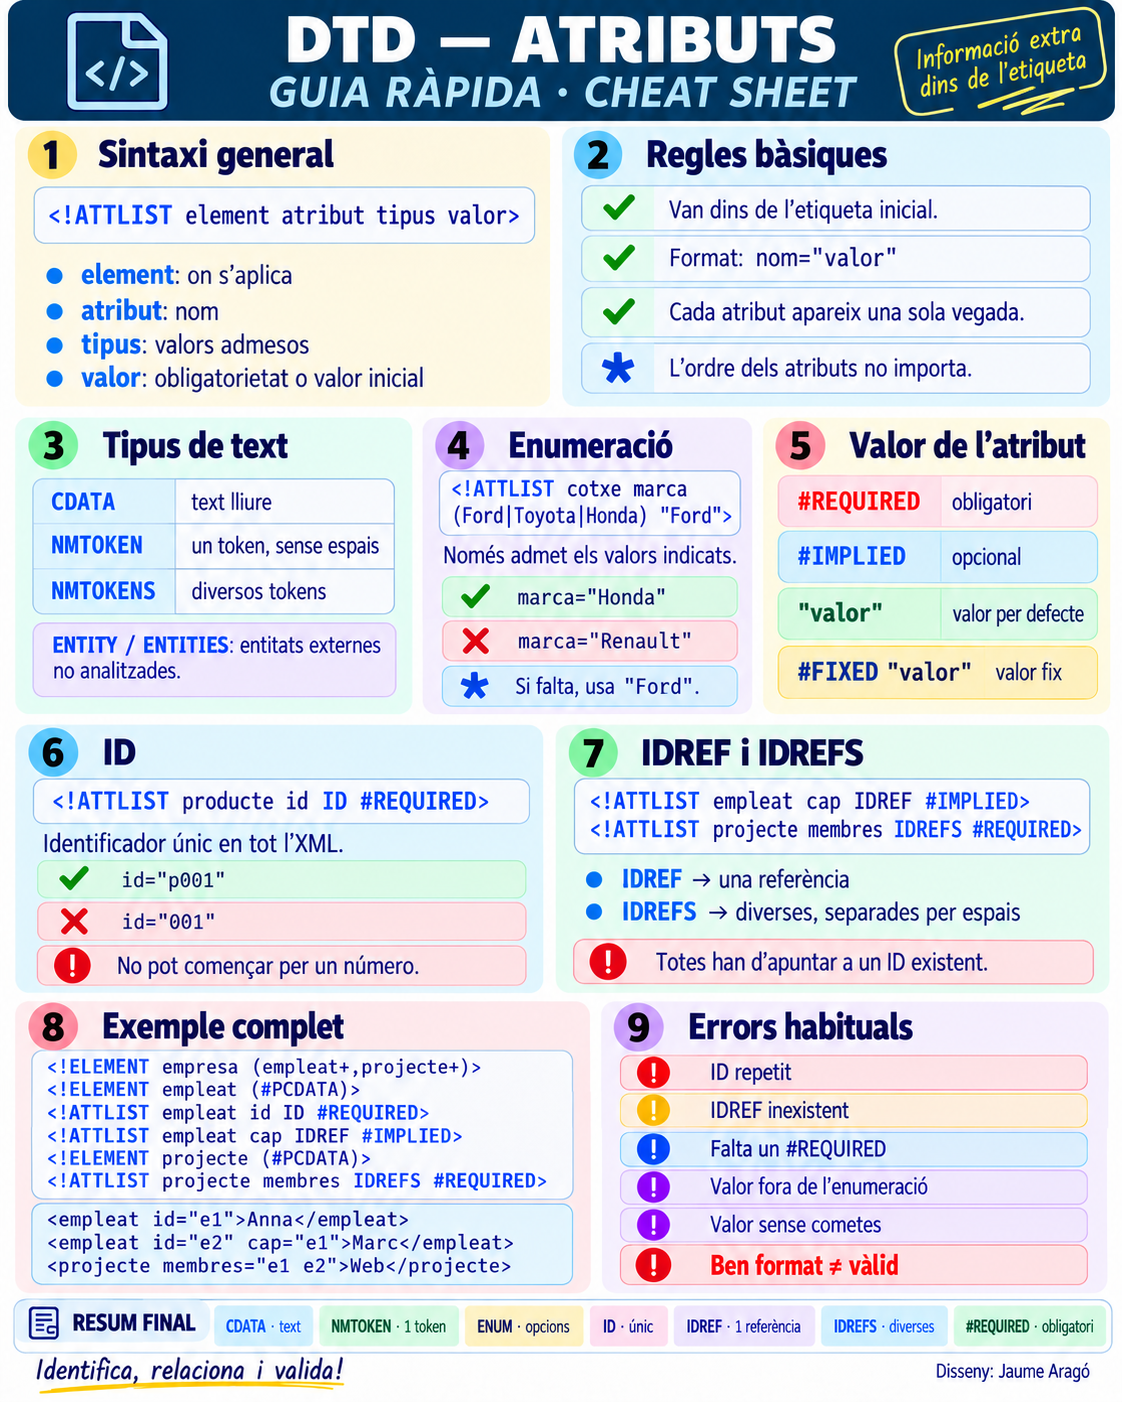
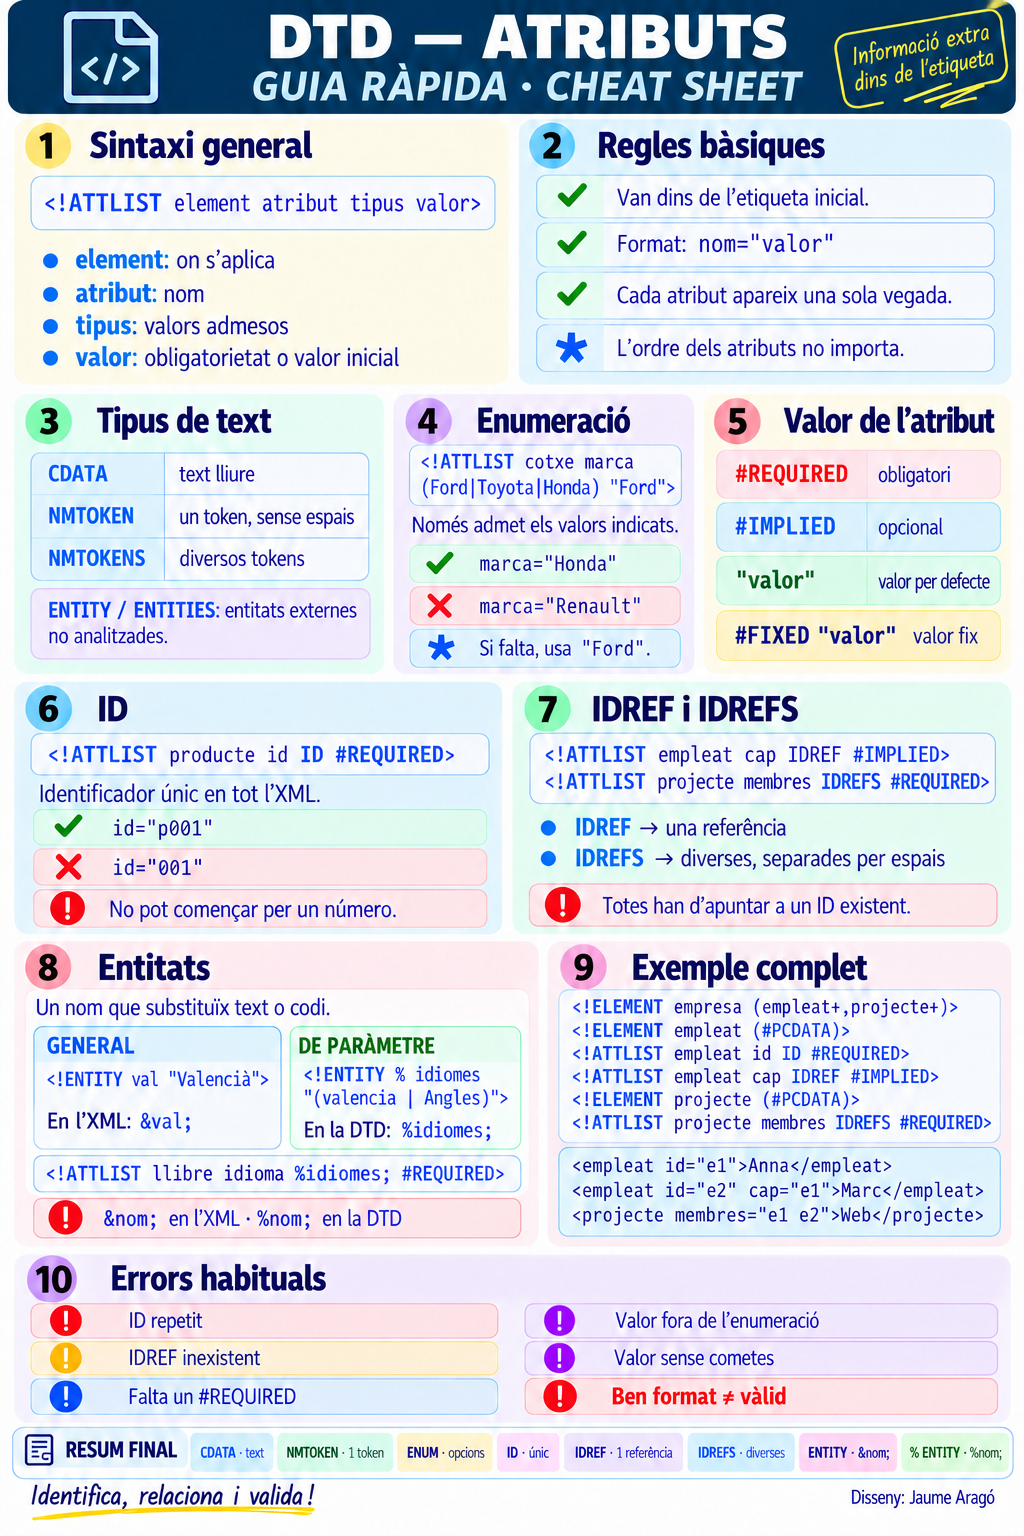
Add visual guide for DTD attributes and update existing image

diff --git a/1 XML-DTD/1.2.2.Atributs.md b/1 XML-DTD/1.2.2.Atributs.md
@@ -170,11 +170,12 @@ El tipus **NMTOKEN** restringeix el valor de l’atribut a **una sola paraula** 
 
 **Exemple:**
 
+✅ Vàlid
+
 ```xml
 <empleat codi="emp_001"/>
 ```
 
-✅ Vàlid
 
 ```xml
 <empleat codi="emp-001"/>
@@ -247,6 +248,8 @@ Cap altre element pot tindre el mateix valor d’ID.
 
 * Cada valor `ID` ha de ser **únic** en tot el document.
 * Ha de començar amb **una lletra o subratllat**, i **no pot contindre espais**.
+* Un tipus d’element només pot tindre **un atribut ID.**
+* Un atribut ID només pot declarar-se amb **#REQUIRED o #IMPLIED.**
 
 **Exemple:**
 
@@ -265,8 +268,12 @@ Cap altre element pot tindre el mateix valor d’ID.
 
 #### **6. IDREF**
 
+
+
 El tipus **IDREF** permet crear **referències** a valors d’atributs `ID` ja declarats.
 Serveix per relacionar elements dins del mateix document.
+
+Un **IDREF** ha de **coincidir amb algun valor ID existent** en el mateix document, encara que aparega posteriorment.
 
 ```dtd
 <!ATTLIST empleat cap IDREF #IMPLIED>
@@ -318,50 +325,6 @@ El tipus **IDREFS** és una extensió d’**IDREF** que permet indicar **múltip
 ```
 
 Ací, el projecte té com a membres els empleats amb identificadors `e1` i `e3`.
-
----
-
-#### **8. ENTITATS GENERALS I ENTITATS DE PARÀMETRE**
-
-Una **entitat** permet assignar un nom a un fragment de text o de codi per poder reutilitzar-lo.
-
-En una DTD podem utilitzar dos tipus principals:
-
-- **Entitats generals**: es declaren en la DTD i s’utilitzen en el document XML.
-- **Entitats de paràmetre**: es declaren i s’utilitzen dins de la mateixa DTD.
-
----
-
-##### **8.1. Entitats generals**
-
-Una entitat general permet definir un text que es podrà reutilitzar en el document XML.
-
-Es declara en la DTD amb la sintaxi següent:
-
-```dtd
-<!ENTITY nom_entitat "contingut">
-```
-
-En el document XML es referencia amb `&nom_entitat;`:
-
-```xml
-&nom_entitat;
-```
-
-**Exemple:**
-
-```dtd
-<!ENTITY cat "Català">
-<!ENTITY eng "Anglés">
-```
-
-En l’XML:
-
-```xml
-<descripcio>El llibre està escrit en &cat;.</descripcio>
-```
-
-El processador XML substituirà `&cat;` pel text `Català`.
 
 ---
 
@@ -421,45 +384,119 @@ El processador XML substituirà `&val;` pel text `Valencià`.
 
 ##### **8.2. Entitats de paràmetre**
 
-Les **entitats de paràmetre** permeten guardar i reutilitzar fragments de la mateixa DTD, com ara una enumeració de valors.
+Les **entitats de paràmetre** permeten definir un fragment de la DTD una sola vegada i reutilitzar-lo posteriorment.
 
-Es declaren afegint el símbol `%`:
+Són útils per reutilitzar:
+
+- Enumeracions de valors.
+- Models de contingut.
+- Declaracions que es repetixen.
+
+A diferència de les entitats generals, les entitats de paràmetre **no s’utilitzen en les dades del document XML**, sinó dins de la DTD.
+
+Es declaren amb el símbol `%`:
 
 ```dtd
 <!ENTITY % nom_entitat "contingut">
 ```
 
-També es referencien amb `%`:
+I es referencien també amb `%`:
 
 ```dtd
 %nom_entitat;
 ```
 
-Per exemple, podem definir els idiomes permesos:
+> **Important**
+>
+> En una **DTD interna**, una entitat de paràmetre no es pot referenciar dins d’una declaració `<!ELEMENT>` o `<!ATTLIST>`.
+>
+> L’ús que es mostra a continuació s’ha de fer en una **DTD externa**, és a dir, dins d’un fitxer `.dtd`.
+
+Per exemple, podem definir una enumeració amb els idiomes permesos:
 
 ```dtd
 <!ENTITY % idiomes "(valencia | angles)">
 ```
 
-I reutilitzar l’entitat en la declaració d’un atribut:
+En una DTD externa, podem reutilitzar esta entitat en la declaració d’un atribut:
 
 ```dtd
-<!ATTLIST llibre
-  idioma %idiomes; #REQUIRED
->
+<!ATTLIST llibre idioma %idiomes; #REQUIRED>
 ```
 
-Quan el processador troba `%idiomes;`, el substitueix pel contingut de l’entitat. Per tant:
+Quan el processador troba la referència:
 
 ```dtd
-idioma %idiomes; #REQUIRED
+%idiomes;
+```
+
+la substituïx pel contingut de l’entitat:
+
+```dtd
+(valencia | angles)
+```
+
+Per tant, esta declaració:
+
+```dtd
+<!ATTLIST llibre idioma %idiomes; #REQUIRED>
 ```
 
 equival a:
 
 ```dtd
-idioma (valencia | angles) #REQUIRED
+<!ATTLIST llibre idioma (valencia | angles) #REQUIRED>
 ```
+
+---
+
+###### **Exemple complet amb DTD externa**
+
+**Fitxer `biblioteca.dtd`**
+
+```dtd
+<!ENTITY % idiomes "(valencia | angles)">
+
+<!ELEMENT biblioteca (llibre+)>
+<!ELEMENT llibre (titol, autor)>
+
+<!ATTLIST llibre codi ID #REQUIRED>
+<!ATTLIST llibre idioma %idiomes; #REQUIRED>
+
+<!ELEMENT titol (#PCDATA)>
+<!ELEMENT autor (#PCDATA)>
+```
+
+**Fitxer `biblioteca.xml`**
+
+```xml
+<?xml version="1.0" encoding="UTF-8" standalone="no"?>
+<!DOCTYPE biblioteca SYSTEM "biblioteca.dtd">
+
+<biblioteca>
+  <llibre codi="L001" idioma="valencia">
+    <titol>L’Ombra del Vent</titol>
+    <autor>Carlos Ruiz Zafón</autor>
+  </llibre>
+
+  <llibre codi="L002" idioma="angles">
+    <titol>To Kill a Mockingbird</titol>
+    <autor>Harper Lee</autor>
+  </llibre>
+</biblioteca>
+```
+
+En este exemple:
+
+- `%idiomes;` només apareix en el fitxer `biblioteca.dtd`.
+- L’atribut `idioma` només admet els valors `valencia` i `angles`.
+- `codi` i `idioma` es declaren mitjançant dos `ATTLIST` independents.
+- `standalone="no"` indica que el document depén d’una DTD externa.
+
+> **Recorda**
+>
+> - `&nom;` → referència a una entitat general dins del document XML.
+> - `%nom;` → referència a una entitat de paràmetre dins de la DTD.
 
 ---
 
@@ -555,8 +592,8 @@ Per acabar, un exemple més complet amb relacions reals entre elements mitjança
 | ID              | Ha de ser un identificador únic per a l'atribut dins del document.                                                            |
 | IDREF           | Fa referència a l'ID d'un altre element.                                                                                      |
 | IDREFS          | És una llista de referències a IDs d'altres elements.                                                                         |
-| ENTITAT         | Fa referència a un nom d'entitat definida al DTD.                                                                             |
-| ENTITATS        | És una llista de noms d'entitats definides.                                                                                   |
+| ENTITY          | Fa referència a un nom d'entitat definida al DTD.                                                                             |
+| ENTITIES        | És una llista de noms d'entitats definides.                                                                                   |
 
 ---
 
@@ -616,7 +653,7 @@ Exemple:
 <!-- Atribut de tipus IDREFS (una llista de referències a IDs) -->
 <!ATTLIST llibre similars IDREFS #IMPLIED>
 <!-- Atribut de tipus ENTITAT per idiomes (entitats prèviament definides) -->
-<!ATTLIST llibre idiomes ENTITAT #IMPLIED>
+<!ATTLIST llibre idiomes ENTITY #IMPLIED>
 ```
 
 **Biblioteca.xml**
